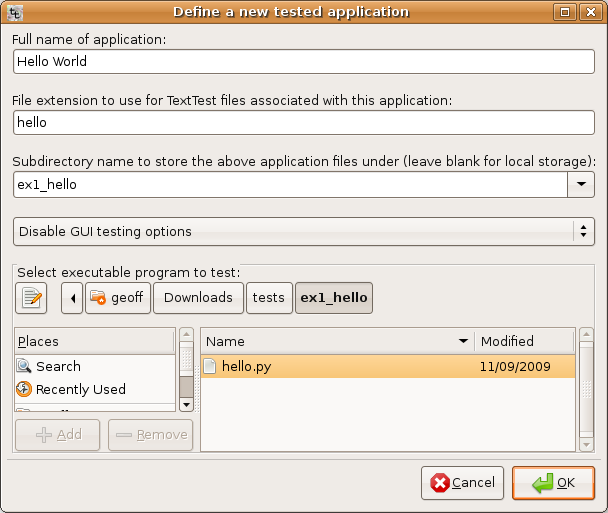
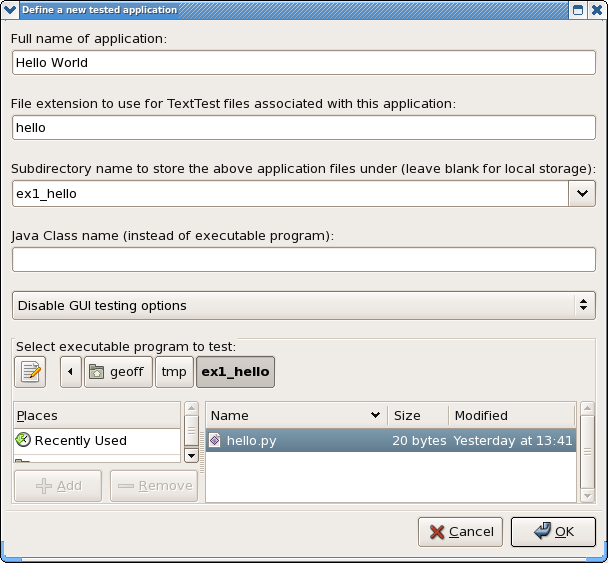
Recreated screenshots for initial tutorials using latest TextTest

Changed region(s): [[0.0, 0.0, 1.0, 1.0]]

diff --git a/include/documentation/documentation_3_19/gui_tests.php b/include/documentation/documentation_3_19/gui_tests.php
@@ -38,11 +38,10 @@ expects.</I>
 world&rdquo;</A>.</div>
 <div class="Text_Normal">However, command line options are
 not sufficient to define a GUI test. We also need to define the
-use case that will be performed with the GUI. To do this, we go
-to the &ldquo;Running&rdquo; tab and then the &ldquo;Recording&rdquo; 
-subtab, and then click the &ldquo;Record Use-Case&rdquo; button
-(or we just choose it from the Actions menu or press "F9" and don't bother with the tabs, 
-as we aren't changing any settings). This will start an instance of the dynamic GUI, as with running tests. 
+use case that will be performed with the GUI. To do this, we select 
+&ldquo;Record Use-Case&rdquo; from the Actions menu
+(or press "F9"). This will fire up the record dialog, where we can just click OK. This will now 
+start an instance of the dynamic GUI, as with running tests. 
 This in turn fires up our PyGTK bug system GUI with PyUseCase in record mode. We simply
 perform the actions that constitute the use case (in this case select some rows, click some of
 the toggle buttons at the bottom and sort some columns), and then close
@@ -60,7 +59,7 @@ By clicking this red-line in the test view we get the view
 below. The contents of the new files can be seen in textual
 format in the &ldquo;Text Info&rdquo; window by single-clicking them (as shown), 
 or viewed by double-clicking them if they are too large. The "usecase.bugs" file provides
-a description of what we did, while the "stdout.bugs" file ("output.bugs" in the screenshot) provides PyUseCase's auto-generated description of what the GUI looked like while we were doing it.
+a description of what we did, while the "stdout.bugs" file provides PyUseCase's auto-generated description of what the GUI looked like while we were doing it.
 </div>
 <div class="Text_Normal"><img src="<?php print $basePath; ?>images/guitest.png" NAME="Graphic1" ALIGN=LEFT BORDER=0><BR CLEAR=LEFT><BR>
 </div>

diff --git a/include/documentation/documentation_3_20/gui_tests.php b/include/documentation/documentation_3_20/gui_tests.php
@@ -38,11 +38,10 @@ expects.</I>
 world&rdquo;</A>.</div>
 <div class="Text_Normal">However, command line options are
 not sufficient to define a GUI test. We also need to define the
-use case that will be performed with the GUI. To do this, we go
-to the &ldquo;Running&rdquo; tab and then the &ldquo;Recording&rdquo; 
-subtab, and then click the &ldquo;Record Use-Case&rdquo; button
-(or we just choose it from the Actions menu or press "F9" and don't bother with the tabs, 
-as we aren't changing any settings). This will start an instance of the dynamic GUI, as with running tests. 
+use case that will be performed with the GUI. To do this, we select 
+&ldquo;Record Use-Case&rdquo; from the Actions menu
+(or press "F9"). This will fire up the record dialog, where we can just click OK. This will now 
+start an instance of the dynamic GUI, as with running tests. 
 This in turn fires up our PyGTK bug system GUI with PyUseCase in record mode. We simply
 perform the actions that constitute the use case (in this case select some rows, click some of
 the toggle buttons at the bottom and sort some columns), and then close
@@ -60,7 +59,7 @@ By clicking this red-line in the test view we get the view
 below. The contents of the new files can be seen in textual
 format in the &ldquo;Text Info&rdquo; window by single-clicking them (as shown), 
 or viewed by double-clicking them if they are too large. The "usecase.bugs" file provides
-a description of what we did, while the "stdout.bugs" file ("output.bugs" in the screenshot) provides PyUseCase's auto-generated description of what the GUI looked like while we were doing it.
+a description of what we did, while the "stdout.bugs" file provides PyUseCase's auto-generated description of what the GUI looked like while we were doing it.
 </div>
 <div class="Text_Normal"><img src="<?php print $basePath; ?>images/guitest.png" NAME="Graphic1" ALIGN=LEFT BORDER=0><BR CLEAR=LEFT><BR>
 </div>

diff --git a/include/documentation/documentation_trunk/gui_tests.php b/include/documentation/documentation_trunk/gui_tests.php
@@ -38,11 +38,10 @@ expects.</I>
 world&rdquo;</A>.</div>
 <div class="Text_Normal">However, command line options are
 not sufficient to define a GUI test. We also need to define the
-use case that will be performed with the GUI. To do this, we go
-to the &ldquo;Running&rdquo; tab and then the &ldquo;Recording&rdquo; 
-subtab, and then click the &ldquo;Record Use-Case&rdquo; button
-(or we just choose it from the Actions menu or press "F9" and don't bother with the tabs, 
-as we aren't changing any settings). This will start an instance of the dynamic GUI, as with running tests. 
+use case that will be performed with the GUI. To do this, we select 
+&ldquo;Record Use-Case&rdquo; from the Actions menu
+(or press "F9"). This will fire up the record dialog, where we can just click OK. This will now 
+start an instance of the dynamic GUI, as with running tests. 
 This in turn fires up our PyGTK bug system GUI with PyUseCase in record mode. We simply
 perform the actions that constitute the use case (in this case select some rows, click some of
 the toggle buttons at the bottom and sort some columns), and then close
@@ -60,7 +59,7 @@ By clicking this red-line in the test view we get the view
 below. The contents of the new files can be seen in textual
 format in the &ldquo;Text Info&rdquo; window by single-clicking them (as shown), 
 or viewed by double-clicking them if they are too large. The "usecase.bugs" file provides
-a description of what we did, while the "stdout.bugs" file ("output.bugs" in the screenshot) provides PyUseCase's auto-generated description of what the GUI looked like while we were doing it.
+a description of what we did, while the "stdout.bugs" file provides PyUseCase's auto-generated description of what the GUI looked like while we were doing it.
 </div>
 <div class="Text_Normal"><img src="<?php print $basePath; ?>images/guitest.png" NAME="Graphic1" ALIGN=LEFT BORDER=0><BR CLEAR=LEFT><BR>
 </div>

diff --git a/include/documentation/documentation_3_19/getting_started.php b/include/documentation/documentation_3_19/getting_started.php
@@ -90,8 +90,7 @@ summary of which files are different in the test.
 <div class="Text_Normal"><IMG src="<?php print $basePath; ?>images/newfiles.png"><BR CLEAR=LEFT><BR>
 </div>
 <div class="Text_Normal">It collected the standard error and standard output of the
-process into 'stderr.hello' and 'stdout.hello' files (the screenshot above
-was created with an older version with different naming conventions). These can
+process into 'stderr.hello' and 'stdout.hello' files. These can
 be viewed by double-clicking in the file view, or a summary is
 available in the 'Text Info' window. We can see that the text
 'Hello world' appeared on standard output, while nothing was

diff --git a/include/documentation/documentation_3_20/getting_started.php b/include/documentation/documentation_3_20/getting_started.php
@@ -90,8 +90,7 @@ summary of which files are different in the test.
 <div class="Text_Normal"><IMG src="<?php print $basePath; ?>images/newfiles.png"><BR CLEAR=LEFT><BR>
 </div>
 <div class="Text_Normal">It collected the standard error and standard output of the
-process into 'stderr.hello' and 'stdout.hello' files (the screenshot above
-was created with an older version with different naming conventions). These can
+process into 'stderr.hello' and 'stdout.hello' files. These can
 be viewed by double-clicking in the file view, or a summary is
 available in the 'Text Info' window. We can see that the text
 'Hello world' appeared on standard output, while nothing was

diff --git a/include/documentation/documentation_trunk/getting_started.php b/include/documentation/documentation_trunk/getting_started.php
@@ -90,8 +90,7 @@ summary of which files are different in the test.
 <div class="Text_Normal"><IMG src="<?php print $basePath; ?>images/newfiles.png"><BR CLEAR=LEFT><BR>
 </div>
 <div class="Text_Normal">It collected the standard error and standard output of the
-process into 'stderr.hello' and 'stdout.hello' files (the screenshot above
-was created with an older version with different naming conventions). These can
+process into 'stderr.hello' and 'stdout.hello' files. These can
 be viewed by double-clicking in the file view, or a summary is
 available in the 'Text Info' window. We can see that the text
 'Hello world' appeared on standard output, while nothing was
